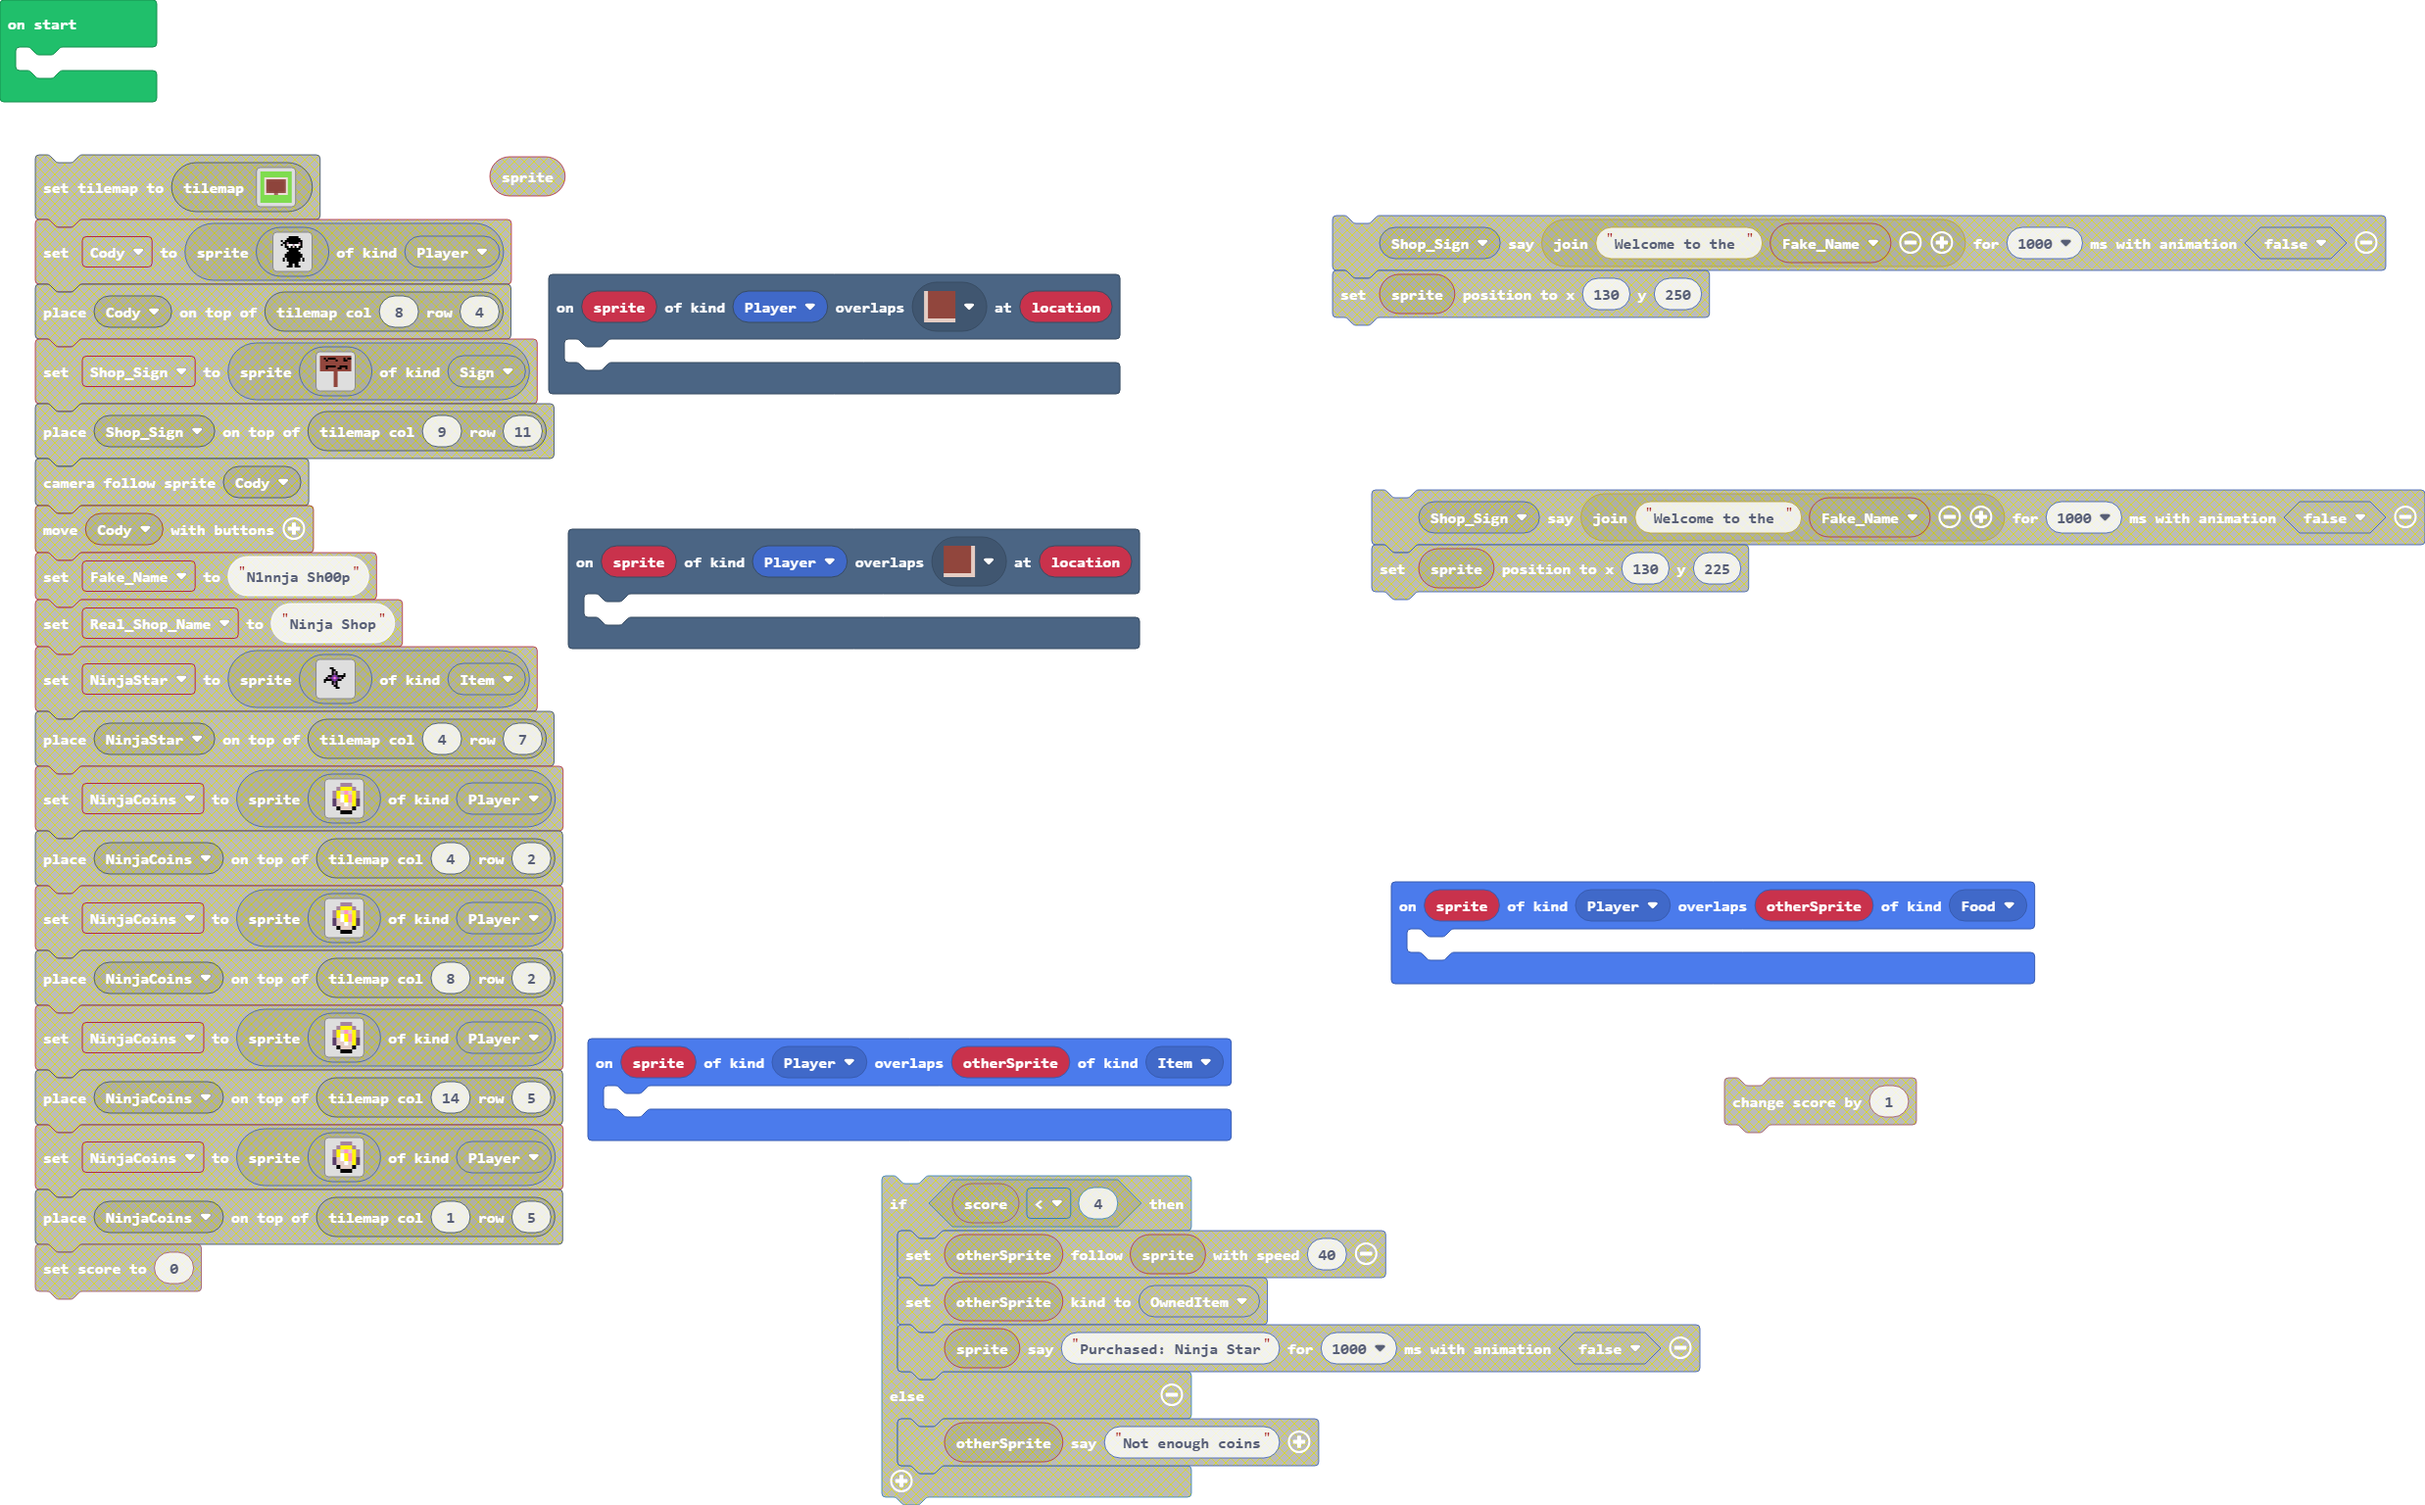
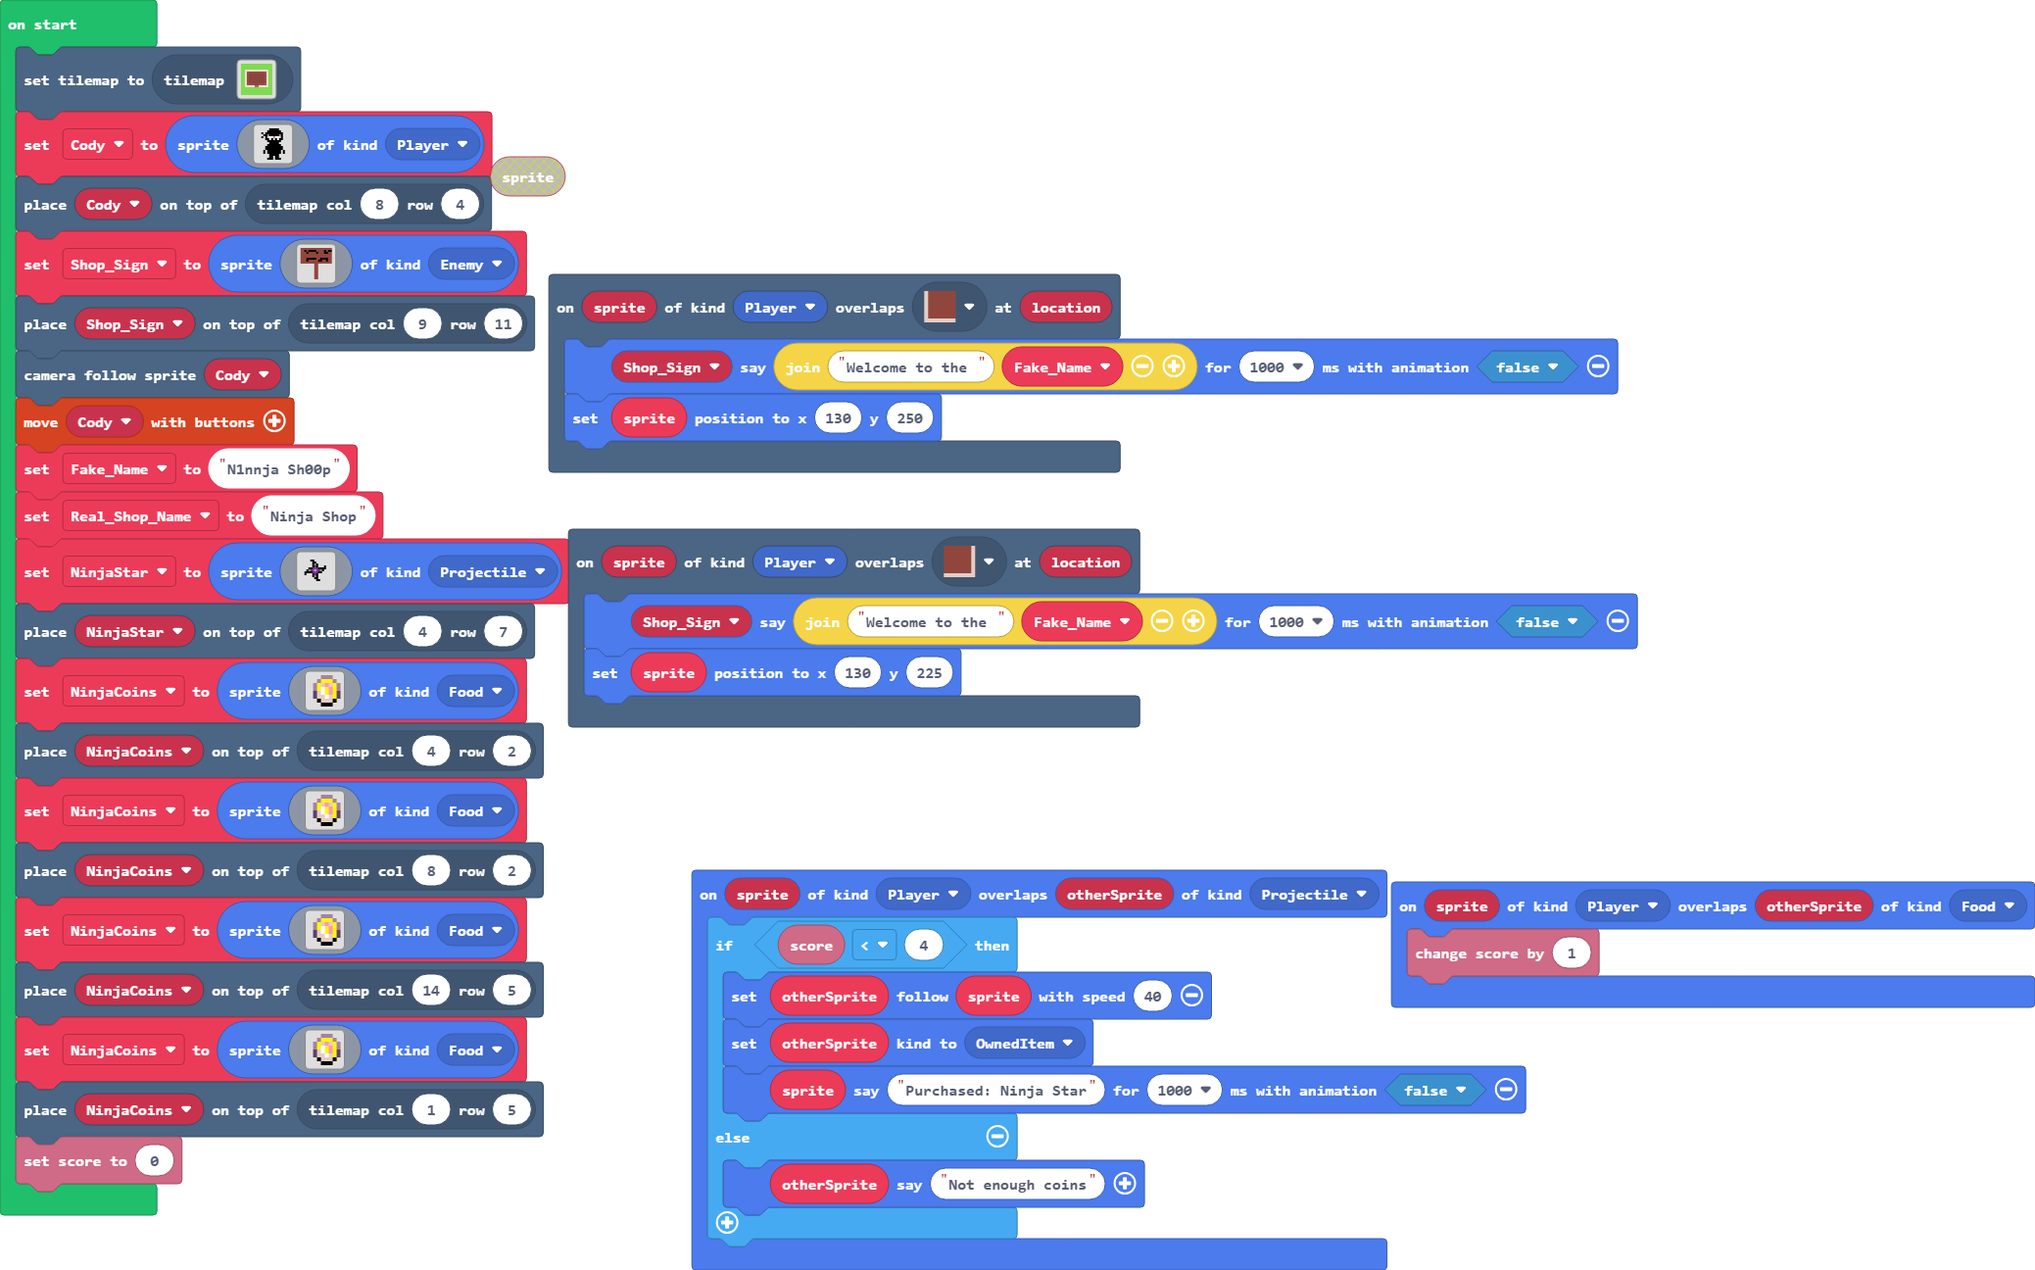
Removed all markdown code from riddle 1

diff --git a/main.ts b/main.ts
@@ -4,14 +4,80 @@ namespace SpriteKind {
     export const OwnedItem = SpriteKind.create()
 }
 scene.onOverlapTile(SpriteKind.Player, assets.tile`myTile0`, function (sprite, location) {
-	
-})
-sprites.onOverlap(SpriteKind.Player, SpriteKind.Item, function (sprite, otherSprite) {
-	
+    Shop_Sign.sayText("Welcome to the " + Fake_Name, 1000, false)
+    sprite.setPosition(130, 250)
 })
 scene.onOverlapTile(SpriteKind.Player, assets.tile`Door tile`, function (sprite, location) {
-	
+    Shop_Sign.sayText("Welcome to the " + Fake_Name, 1000, false)
+    sprite.setPosition(130, 225)
+})
+sprites.onOverlap(SpriteKind.Player, SpriteKind.Projectile, function (sprite, otherSprite) {
+    if (info.score() < 4) {
+        otherSprite.follow(sprite, 40)
+        otherSprite.setKind(SpriteKind.OwnedItem)
+        sprite.sayText("Purchased: Ninja Star", 1000, false)
+    } else {
+        otherSprite.sayText("Not enough coins")
+    }
 })
 sprites.onOverlap(SpriteKind.Player, SpriteKind.Food, function (sprite, otherSprite) {
-	
+    info.changeScoreBy(1)
 })
+let Fake_Name = ""
+let Shop_Sign: Sprite = null
+tiles.setCurrentTilemap(tilemap`Store`)
+let Cody = sprites.create(assets.image`Ninja`, SpriteKind.Player)
+tiles.placeOnTile(Cody, tiles.getTileLocation(8, 4))
+Shop_Sign = sprites.create(assets.image`Sign`, SpriteKind.Enemy)
+tiles.placeOnTile(Shop_Sign, tiles.getTileLocation(9, 11))
+scene.cameraFollowSprite(Cody)
+controller.moveSprite(Cody)
+Fake_Name = "N1nnja Sh00p"
+let Real_Shop_Name = "Ninja Shop"
+let NinjaStar = sprites.create(assets.image`Ninja Star`, SpriteKind.Projectile)
+tiles.placeOnTile(NinjaStar, tiles.getTileLocation(4, 7))
+let NinjaCoins = sprites.create(img`
+    . . . b b b . . 
+    . . b 5 5 5 b . 
+    . b 5 d 3 d 5 b 
+    . b 5 1 5 3 5 b 
+    . c d 1 5 3 5 c 
+    . c d d 1 d 5 c 
+    . . f d d d f . 
+    . . . f f f . . 
+    `, SpriteKind.Food)
+tiles.placeOnTile(NinjaCoins, tiles.getTileLocation(4, 2))
+NinjaCoins = sprites.create(img`
+    . . . b b b . . 
+    . . b 5 5 5 b . 
+    . b 5 d 3 d 5 b 
+    . b 5 1 5 3 5 b 
+    . c d 1 5 3 5 c 
+    . c d d 1 d 5 c 
+    . . f d d d f . 
+    . . . f f f . . 
+    `, SpriteKind.Food)
+tiles.placeOnTile(NinjaCoins, tiles.getTileLocation(8, 2))
+NinjaCoins = sprites.create(img`
+    . . . b b b . . 
+    . . b 5 5 5 b . 
+    . b 5 d 3 d 5 b 
+    . b 5 1 5 3 5 b 
+    . c d 1 5 3 5 c 
+    . c d d 1 d 5 c 
+    . . f d d d f . 
+    . . . f f f . . 
+    `, SpriteKind.Food)
+tiles.placeOnTile(NinjaCoins, tiles.getTileLocation(14, 5))
+NinjaCoins = sprites.create(img`
+    . . . b b b . . 
+    . . b 5 5 5 b . 
+    . b 5 d 3 d 5 b 
+    . b 5 1 5 3 5 b 
+    . c d 1 5 3 5 c 
+    . c d d 1 d 5 c 
+    . . f d d d f . 
+    . . . f f f . . 
+    `, SpriteKind.Food)
+tiles.placeOnTile(NinjaCoins, tiles.getTileLocation(1, 5))
+info.setScore(0)
